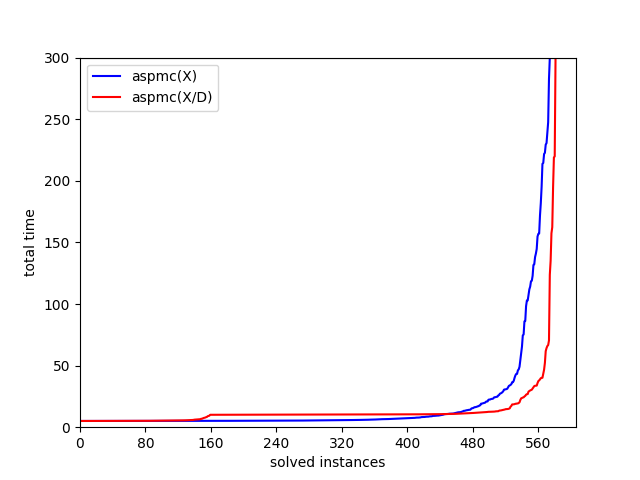
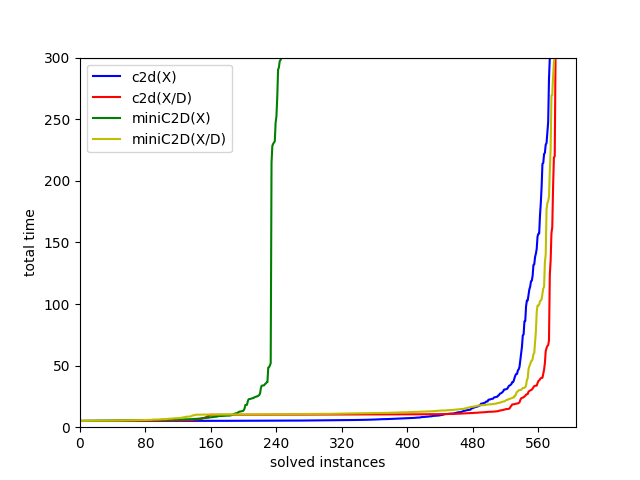
concom plots.

diff --git a/plot.py b/plot.py
@@ -199,14 +199,22 @@ if EFFICIENCY:
         plt.show()
 
     if CONCOM:
+        ava = csv2rec(open("results/concom/X/results_mini.csv"))
+        ava['total_time'].sort()
+        plt.plot(range(1, len(ava['total_time']) + 1), ava["total_time"], "-b", label="miniC2D(X)")
+
+        ava = csv2rec(open("results/concom/XD/results_mini.csv"))
+        ava['total_time'].sort()
+        plt.plot(range(1, len(ava['total_time']) + 1), ava["total_time"], "-y", label="miniC2D(X/D)")
+        
         ava = csv2rec(open("results/concom/X/results.csv"))
         ava['total_time'].sort()
-        plt.plot(range(1, len(ava['total_time']) + 1), ava["total_time"], "-b", label="aspmc(X)")
+        plt.plot(range(1, len(ava['total_time']) + 1), ava["total_time"], "-g", label="c2d(X)")
         
         ava = csv2rec(open("results/concom/XD/results.csv"))
         ava['total_time'].sort()
-        plt.plot(range(1, len(ava['total_time']) + 1), ava["total_time"], "-r", label="aspmc(X/D)")
-
+        plt.plot(range(1, len(ava['total_time']) + 1), ava["total_time"], "-r", label="c2d(X/D)")
+        
         plt.plot(range(0, len(ava['total_time']) + 1), [TIMEOUT]*(len(ava['total_time']) + 1), "-k")
         plt.ylabel('total time')
         plt.xlabel('solved instances')
@@ -243,9 +251,13 @@ if EFFICIENCY:
         ava['total_time'].sort()
         plt.plot(range(1, len(ava['total_time']) + 1), ava["total_time"], "-r", label="c2d(X/D)")
 
+        ava = csv2rec(open("results/concom/X/results_grid_mini.csv"))
+        ava['total_time'].sort()
+        plt.plot(range(1, len(ava['total_time']) + 1), ava["total_time"], "-g", label="miniC2D(X)")
+
         ava = csv2rec(open("results/concom/XD/results_grid_mini.csv"))
         ava['total_time'].sort()
-        plt.plot(range(1, len(ava['total_time']) + 1), ava["total_time"], "-g", label="miniC2D(X/D)")
+        plt.plot(range(1, len(ava['total_time']) + 1), ava["total_time"], "-y", label="miniC2D(X/D)")
 
         plt.plot(range(0, len(ava['total_time']) + 1), [TIMEOUT]*(len(ava['total_time']) + 1), "-k")
         plt.ylabel('total time')
